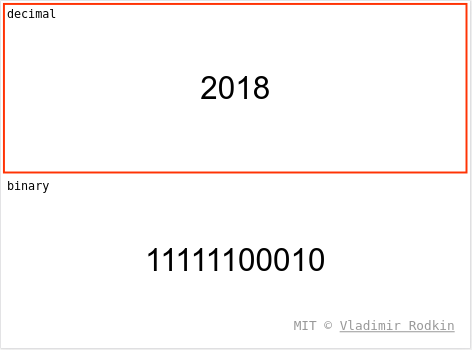
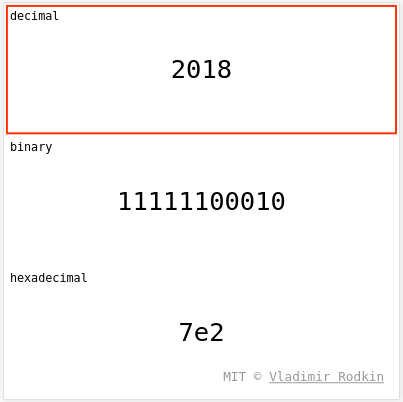
feat(project): Add hexadecimal number converter input

diff --git a/js/index.js b/js/index.js
@@ -1,8 +1,7 @@
 /* global Vue */
 
+const EXPONENT_SYMBOL = ['e', 'E'];
 const NUMBER_INPUT_KEY_BLACK_LIST = [
-	'e',
-	'E',
 	'-',
 	'+',
 	'=',
@@ -11,10 +10,16 @@ const NUMBER_INPUT_KEY_BLACK_LIST = [
 	' '
 ];
 
-const DECIMAL_INPUT_KEY_BLACK_LIST = [...NUMBER_INPUT_KEY_BLACK_LIST];
+const DECIMAL_INPUT_KEY_BLACK_LIST = [
+	...NUMBER_INPUT_KEY_BLACK_LIST,
+	...EXPONENT_SYMBOL
+];
 const DECIMAL_INPUT_KEY_BLACK_LIST_MAP = createIdMap(DECIMAL_INPUT_KEY_BLACK_LIST);
 
-const BINARY_INPUT_KEY_BLACK_LIST = [...NUMBER_INPUT_KEY_BLACK_LIST];
+const BINARY_INPUT_KEY_BLACK_LIST = [
+	...NUMBER_INPUT_KEY_BLACK_LIST,
+	...EXPONENT_SYMBOL
+];
 // Add number key codes from 2 to 9
 let i = 10;
 while (i-- > 2) {
@@ -22,6 +27,12 @@ while (i-- > 2) {
 }
 // Create key map for faster search
 const BINARY_INPUT_KEY_BLACK_LIST_MAP = createIdMap(BINARY_INPUT_KEY_BLACK_LIST);
+
+const HEXADECIMAL_INPUT_KEY_BLACK_LIST = [
+	...NUMBER_INPUT_KEY_BLACK_LIST
+];
+// Create key map for faster search
+const HEXADECIMAL_INPUT_KEY_BLACK_LIST_MAP = createIdMap(HEXADECIMAL_INPUT_KEY_BLACK_LIST);
 
 // eslint-disable-next-line no-unused-vars
 const app = new Vue({
@@ -32,11 +43,15 @@ const app = new Vue({
 	computed: {
 		binaryValue() {
 			return decimalToBinary(this.value);
+		},
+		hexadecimalValue() {
+			return decimalToHexadecimal(this.value);
 		}
 	},
 	methods: {
+		// Decimal
 		onDecimalInput(e) {
-			this.value = parseInt(e.target.value, 10);
+			this.setValue(parseInt(e.target.value, 10));
 		},
 
 		onDecimalKeyDown(e) {
@@ -45,6 +60,7 @@ const app = new Vue({
 			}
 		},
 
+		// Binary
 		onBinaryInput(e) {
 			const currentBinaryValue = this.binaryValue;
 			const newBinaryValue = parseInt(e.target.value, 10);
@@ -55,7 +71,7 @@ const app = new Vue({
 			} else if (different === 1) {
 				this.increase();
 			} else {
-				this.value = binaryToDecimal(e.target.value);
+				this.setValue(binaryToDecimal(e.target.value));
 			}
 		},
 
@@ -75,6 +91,41 @@ const app = new Vue({
 			}
 		},
 
+		// Hexadecimal
+		onHexadecimalInput(e) {
+			const currentHexadecimalValue = this.hexadecimalValue;
+			const newHexadecimalValue = parseInt(e.target.value, 10);
+			const different = newHexadecimalValue - currentHexadecimalValue;
+
+			if (different === -1) {
+				this.decrease();
+			} else if (different === 1) {
+				this.increase();
+			} else {
+				this.setValue(hexadecimalToDecimal(e.target.value));
+			}
+		},
+
+		onHexadecimalMousewheel(e) {
+			e.preventDefault();
+
+			if (e.wheelDeltaY > 0) {
+				this.increase();
+			} else {
+				this.decrease();
+			}
+		},
+
+		onHexadecimalKeyDown(e) {
+			if (HEXADECIMAL_INPUT_KEY_BLACK_LIST_MAP[e.key]) {
+				e.preventDefault();
+			}
+		},
+
+		setValue(value) {
+			this.value = value > 0 ? value : 0;
+		},
+
 		increase() {
 			this.value += 1;
 		},
@@ -87,14 +138,56 @@ const app = new Vue({
 	}
 });
 
+/**
+ * Convert decimal to binary number
+ *
+ * @param {number} value
+ * @returns {number}
+ */
 function decimalToBinary(value) {
-	return parseInt(parseInt(value, 10).toString(2), 10);
+	return parseInt(value.toString(2), 10);
 }
 
+/**
+ * Convert binary to decimal number
+ *
+ * @param {number} value
+ * @returns {number}
+ */
 function binaryToDecimal(value) {
 	return parseInt(value, 2);
 }
 
+/**
+ * Convert decimal to hexadecimal number
+ *
+ * @param {number} value
+ * @returns {string}
+ */
+function decimalToHexadecimal(value) {
+	return value.toString(16);
+}
+
+/**
+ * Convert hexadecimal to decimal number
+ *
+ * @param {string} value
+ * @returns {number}
+ */
+function hexadecimalToDecimal(value) {
+	return parseInt(value, 16);
+}
+
+/**
+ * Create id hash map from array
+ *
+ * @param {Array} list
+ * @returns {Object}
+ *
+ * @example
+ * createIdMap(['foo', 'bar']);
+ * //=> {foo: true, bar: true}
+ */
 function createIdMap(list) {
 	return list.reduce((acc, key) => {
 		acc[key] = true;

diff --git a/test-cafe/test.js b/test-cafe/test.js
@@ -3,12 +3,14 @@ import {Selector} from 'testcafe';
 /* eslint-disable new-cap */
 const decimalInput = Selector('#decimal');
 const binaryInput = Selector('#binary');
+const hexadecimalInput = Selector('#hexadecimal');
 /* eslint-enable new-cap */
 
 // eslint-disable-next-line no-unused-expressions
 fixture`Getting Started`
 	.page`http://localhost:8080`;
 
+// Decimal
 test('Edit decimal value', async t => {
 	await t
 		.typeText(decimalInput, '12', {replace: true})
@@ -21,6 +23,13 @@ test('Edit decimal, update binary', async t => {
 		.expect(binaryInput.value).eql('1100');
 });
 
+test('Edit decimal, update hexadecimal', async t => {
+	await t
+		.typeText(decimalInput, '12', {replace: true})
+		.expect(hexadecimalInput.value).eql('c');
+});
+
+// Binary
 test('Edit binary value', async t => {
 	await t
 		.typeText(binaryInput, '1100', {replace: true})
@@ -31,4 +40,29 @@ test('Edit binary, update decimal', async t => {
 	await t
 		.typeText(binaryInput, '1100', {replace: true})
 		.expect(decimalInput.value).eql('12');
+});
+
+test('Edit binary, update hexadecimal', async t => {
+	await t
+		.typeText(decimalInput, '12', {replace: true})
+		.expect(hexadecimalInput.value).eql('c');
+});
+
+// Hexadecimal
+test('Edit hexadecimal value', async t => {
+	await t
+		.typeText(hexadecimalInput, 'c', {replace: true})
+		.expect(hexadecimalInput.value).eql('c');
+});
+
+test('Edit hexadecimal, update decimal', async t => {
+	await t
+		.typeText(hexadecimalInput, 'c', {replace: true})
+		.expect(decimalInput.value).eql('12');
+});
+
+test('Edit hexadecimal, update binary', async t => {
+	await t
+		.typeText(hexadecimalInput, 'c', {replace: true})
+		.expect(binaryInput.value).eql('1100');
 });

diff --git a/index.html b/index.html
@@ -6,7 +6,7 @@
 	<meta name="viewport" content="width=device-width, initial-scale=1">
 
 	<title>number-converter</title>
-	<meta name="description" content="Convert decimal and binary numbers">
+	<meta name="description" content="Convert decimal, binary and hexadecimal numbers">
 
 	<link href="styles/index.css" rel="stylesheet">
 </head>
@@ -40,6 +40,21 @@
 			v-on:input="onBinaryInput"
 			v-on:mousewheel="onBinaryMousewheel"
 			v-on:keydown="onBinaryKeyDown"
+		/>
+	</div>
+
+	<div class="control control_hexadecimal">
+		<label class="control__label" for="hexadecimal">hexadecimal</label>
+
+		<input
+			id="hexadecimal"
+			class="control__input"
+			type="text"
+			pattern="[\da-fA-F]+"
+			v-bind:value="hexadecimalValue"
+			v-on:input="onHexadecimalInput"
+			v-on:mousewheel="onHexadecimalMousewheel"
+			v-on:keydown="onHexadecimalKeyDown"
 		/>
 	</div>
 

diff --git a/README.md b/README.md
@@ -8,7 +8,7 @@
 [![Dependency Status][depstat-image]][depstat-url]
 [![DevDependency Status][depstat-dev-image]][depstat-dev-url]
 
-> Convert decimal and binary numbers
+> Convert decimal, binary and hexadecimal numbers
 
 Demo: [vovanr.github.io/number-converter][demo]
 
